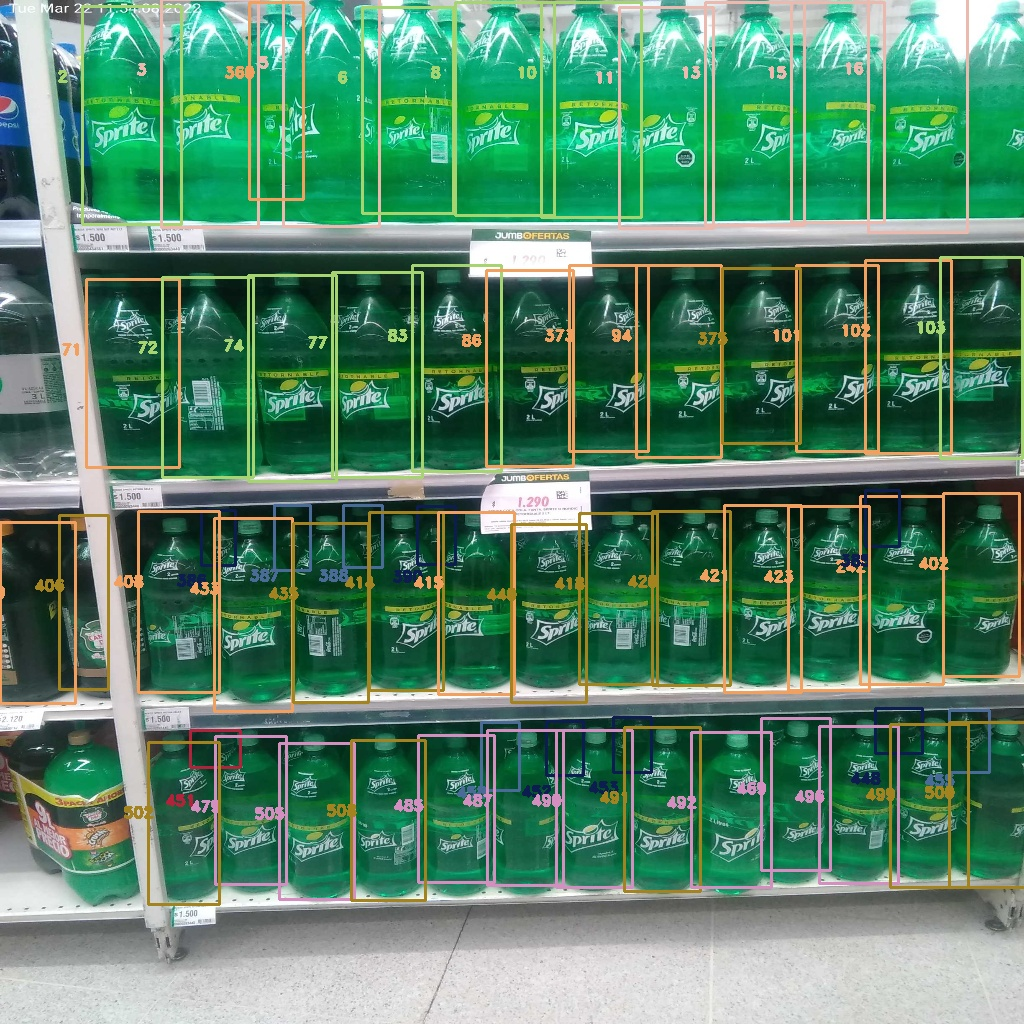
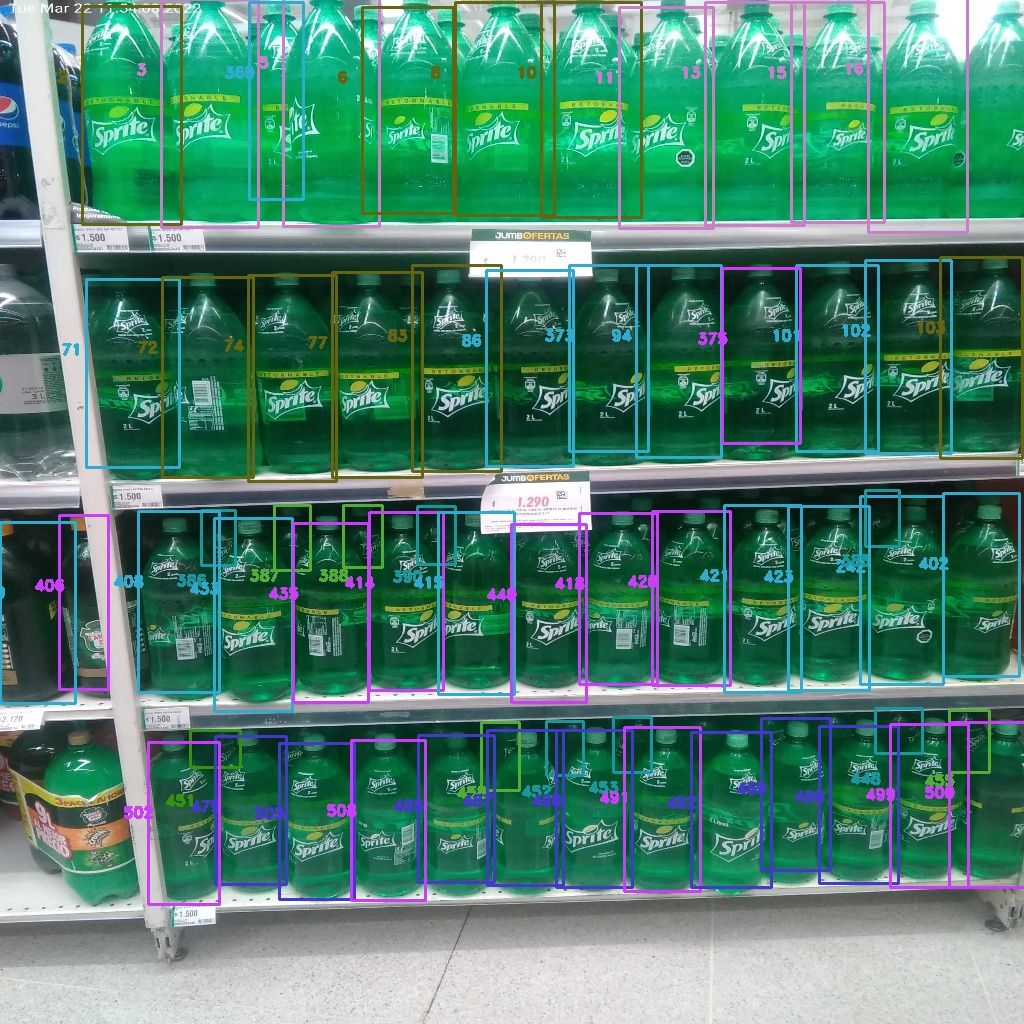
paleta v20220518_1406

diff --git a/python/DEMO_WINUX_PALETA_20220517.py b/python/DEMO_WINUX_PALETA_20220517.py
@@ -192,6 +192,12 @@ def testYolo(src_, types_):
             elemento["w"] = w
             elemento["h"] = h
 
+
+            #failures:
+            if elemento["y1"]<0:
+                elemento["y1"]=0
+
+
             #altura_mitad = int(h/2)
             half_altura = int(h/20)
 
@@ -437,8 +443,8 @@ def __paleta__(path_, file_):
     out["OUT"] = "test" 
     return out
 
-#testYolo("22032022115408_FOTO_SALA_BUENA.jpg", types_=['bottle'])  #sprite
-testYolo("22032022115408_FOTO_SALA_BUENA.jpg", types_=['bottle']) # coca cola
+testYolo("22032022115408_FOTO_SALA_BUENA.jpg", types_=['bottle'])  #sprite
+#testYolo("_ELEGIDA_27012022165311_FOTO_SALA_BUENA.jpg", types_=['bottle']) # coca cola
 
 
 """
